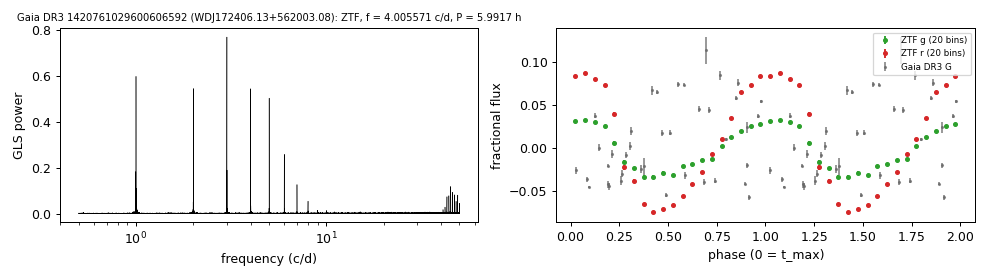
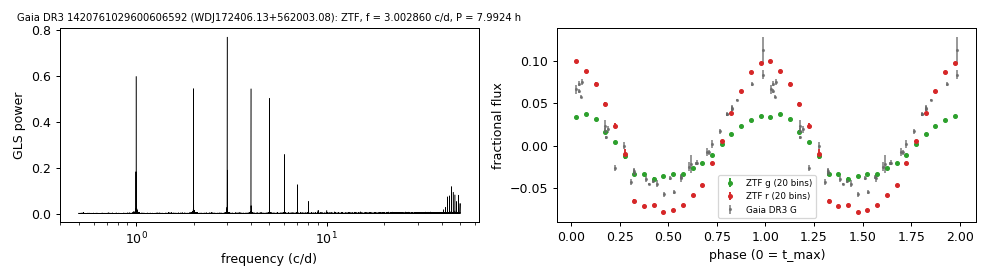
WDJ172406.13+562003.08: published orbital period adopted (ZTF peak was the 1-day alias); frequency uncertainty floored at 1/20 of the resolution

diff --git a/scripts/hot_dae_wd_periods.py b/scripts/hot_dae_wd_periods.py
@@ -11,7 +11,9 @@ Light curves:
   G transits without a rejection flag; TimeG + 2455197.5 used as BJD. The other stars are not in the published epoch-photometry table.
 Frequency: generalised Lomb-Scargle over 0.5-50 c/d (Baluev false-alarm probability of the highest peak); frequencies within
 0.03 c/d of 1, 2 and 3 c/d are excluded (1-day aliases); then a least-squares sinusoid with one offset per light curve on a fine
-grid; the uncertainty is the half-range where chi2 <= chi2_min + chi2_r.
+grid; the uncertainty is the half-range where chi2 <= chi2_min + chi2_r, floored at 1/20 of the frequency resolution 1/T. Where data/hot_dae_wd_periods_sources.csv gives adopt_frequency_cd
+(with adopt_reference), the fine-grid refinement is run around that frequency instead of the highest masked peak, which is still
+reported as peak_cd/peak_fap; used when the true period lies inside an excluded band and is established by other data.
 Amplitudes: sinusoid plus first harmonic at the adopted frequency, overall and per ZTF filter (rows "ZTF zg", "ZTF zr").
 t_max: first maximum of the fitted fundamental after BJD_TDB 2458000.0 at the adopted frequency.
 Usage: python hot_dae_wd_periods.py (writes ../tables/hot_wd_periods.csv and ../tables/dae_wd_periods.csv)."""
@@ -82,24 +84,25 @@ def sinefit(t, y, e, f, groups=None, harm=2):
     return res
 
 
-def adopted_frequency(t, y, e, g):
+def adopted_frequency(t, y, e, g, f0=None):
     fr = np.arange(0.5, 50, 0.2 / (t.max() - t.min())); ls = LombScargle(t, y, e); P = ls.power(fr)
     mask = np.ones_like(fr, bool)
     for n in (1, 2, 3):
         mask &= np.abs(fr - n) > 0.03
     k = int(np.argmax(np.where(mask, P, 0)))
     fap = float(ls.false_alarm_probability(P[k], minimum_frequency=0.5, maximum_frequency=50, method="baluev"))
-    step = 1 / (t.max() - t.min()); fg = np.arange(fr[k] - 2 * step, fr[k] + 2 * step, step / 200)
+    fc = fr[k] if f0 is None or not np.isfinite(f0) else f0
+    step = 1 / (t.max() - t.min()); fg = np.arange(fc - 2 * step, fc + 2 * step, step / 200)
     chi = np.array([sinefit(t, y, e, f, g, harm=1)["chi2"] for f in fg]); j = int(np.argmin(chi))
     s2 = chi[j] / (len(t) - len(np.unique(g)) - 2); inside = fg[chi <= chi[j] + s2]
-    return dict(f=float(fg[j]), e_f=float((inside.max() - inside.min()) / 2), gls_f=float(fr[k]), gls_fap=fap)
+    return dict(f=float(fg[j]), e_f=float(max((inside.max() - inside.min()) / 2, step / 20)), gls_f=float(fr[k]), gls_fap=fap)  # floor: 1/20 of the frequency resolution
 
 
 def main():
     out = {"hot": [], "dae": []}
     for gid, s in SRC.iterrows():
         t, y, e, g = load_atlas(gid) if s.ground == "ATLAS" else load_ztf(gid)
-        F = adopted_frequency(t, y, e, g); f = F["f"]; r = sinefit(t, y, e, f, g)
+        F = adopted_frequency(t, y, e, g, float(s.get("adopt_frequency_cd", np.nan))); f = F["f"]; r = sinefit(t, y, e, f, g)
         base = dict(gaia_dr3=gid, name=s["name"], frequency_cd=round(f, 7), e_frequency_cd=round(F["e_f"], 7), period_h=round(24 / f, 5), e_period_h=round(24 * F["e_f"] / f ** 2, 5))
         rows = [dict(base, dataset=s.ground, n=len(t), bjd_first=round(t.min(), 3), bjd_last=round(t.max(), 3), peak_cd=round(F["gls_f"], 5), peak_fap=float(f"{F['gls_fap']:.2g}"),
                      amplitude_frac=round(r["amp1"], 4), e_amplitude_frac=round(r["e_amp1"], 4), harmonic2_frac=round(r["amp2"], 4), e_harmonic2_frac=round(r["e_amp2"], 4),

diff --git a/scripts/object_pages.py b/scripts/object_pages.py
@@ -52,7 +52,7 @@ DESC = {
     "1415911839725510528": "Spectral type DA, 68.0 kK (Kilic et al. 2026, via the MWDD). G = 17.59, 833 pc.",
     "2311285729210966144": "GALEX J234931.8-353916; SDSS-V DR20 SnowWhite class DA. G = 17.88, 882 pc.",
     "3365371721281530880": "No spectrum found. G = 18.10, 1100 pc.",
-    "1420761029600606592": "DESI DR1 class DAe; GF21 15.0 kK, 0.11 Msun; W1, W2 excess 1.8, 1.9 mag. G = 16.26, 403 pc.",
+    "1420761029600606592": "DESI DR1 class DAe; GF21 15.0 kK, 0.11 Msun; W1, W2 excess 1.8, 1.9 mag. G = 16.26, 403 pc. SDSS J1724+5620, post-common-envelope binary with the orbital period published by Rebassa-Mansergas et al. (2008).",
     "1337970174853051392": "DESI DR1 class DAE; GF21 12.1 kK, 0.17 Msun; W1, W2 excess 2.0, 1.7 mag. G = 18.94, 741 pc.",
     "4409006786607484672": "DESI DR1 class DAE; GF21 22.4 kK, 0.24 Msun; W1, W2 excess 2.1, 2.6 mag. G = 18.95, 1233 pc.",
     "3717349170269867520": "DESI DR1 class DAe; GF21 22.8 kK, 0.34 Msun; W1, W2 excess 1.9, 2.0 mag. G = 18.99, 955 pc.",
@@ -252,7 +252,7 @@ MARK = {
     "974895286283420160": 1, "1157401396015448960": 1, "920621124593362816": 1,
 }
 
-NOBOLD = {"974895286283420160", "1157401396015448960", "920621124593362816"}
+NOBOLD = {"974895286283420160", "1157401396015448960", "920621124593362816", "1420761029600606592"}
 
 idx = []
 for topic in ORDER:

diff --git a/METHODS.md b/METHODS.md
@@ -60,7 +60,7 @@
     - seven stars from a blind joint g+r Lomb-Scargle search (0.5-50 c/d; 0.03 c/d around 1, 2 and 3 c/d masked) of the ZTF light curves of the 716 white dwarfs with Variable = False in Jestin et al. (2026, A&A 712, A243, table A1), keeping false-alarm probability < 1e-8, amplitude > 5 sigma, the same frequency recovered in at least 3 of 4 subsets (g only, r only, first and second half after 60-day detrending), and no shared-frequency cluster;
     - two stars with Gaia DR3 `vari_spurious_signals` frequencies recovered as the highest ATLAS peak in both bands;
     - seven stars from the DESI DR1 classes DAe, DAE and DA+ (Amorim et al. 2026), ZTF false-alarm probability < 1e-6. Two further stars whose top ZTF frequency was not reproduced by this pipeline (a 1 c/d alias, and an unstable peak choice) were excluded.
-  - Light curves, frequency refinement, amplitudes and `t_max` as for the fourteen-star set above; ZTF light curves from a 1.5 arcsec cone; frequencies within 0.03 c/d of 1, 2 and 3 c/d excluded.
+  - Light curves, frequency refinement, amplitudes and `t_max` as for the fourteen-star set above; ZTF light curves from a 1.5 arcsec cone; frequencies within 0.03 c/d of 1, 2 and 3 c/d excluded. Where the true frequency lies inside an excluded band and is established by other data, `data/hot_dae_wd_periods_sources.csv` gives it as `adopt_frequency_cd` with the reference, and the refinement is run there (WDJ172406.13+562003.08: 3.0028 c/d). The frequency uncertainty (half-range of the fine grid with chi2 <= chi2_min + chi2_r) is floored at 1/20 of the frequency resolution 1/T.
   - Period-novelty checks per star: VSX; the MWDD master table; SIMBAD; a VizieR all-table cone (period/frequency columns); Chen et al. (2020); Gao et al. (2025, ApJS 276, 57); Wang et al. (2025, ApJS 281, 52); the arXiv source tables of Oliveira da Rosa et al. (2024, ApJ 974, 314) and Filiz et al. (2026, arXiv:2601.11191) by TIC and of Reindl et al. (2021, A&A 647, A184) by name; the TESS CV catalogue (arXiv:2607.08727); TARS (arXiv:2603.05586) excludes these stars by its T < 16, d < 100 pc cuts (checked 2026-09-27).
   - CatWISE2020 excesses for the emission-line stars as on the irradiated-companion page.
 - **Gaia DR3 3107374277060584064** (`reflection_3107374277060584064.py`).

diff --git a/docs/dae_wd_periods.md b/docs/dae_wd_periods.md
@@ -4,7 +4,7 @@
 
 | star | Gaia DR3 | G | distance (pc) | DESI class | GF21 Teff, mass (H) | W1, W2 excess (mag) | P (h) | semi-amplitude g, r |
 |---|---|---|---|---|---|---|---|---|
-| WDJ172406.13+562003.08 | 1420761029600606592 | 16.26 | 403 | DAe | 15.0 kK, 0.11 Msun | 1.8, 1.9 | 5.9917 | 3.3%, 8.2% |
+| WDJ172406.13+562003.08 | 1420761029600606592 | 16.26 | 403 | DAe | 15.0 kK, 0.11 Msun | 1.8, 1.9 | 7.9924 (published: Rebassa-Mansergas et al. 2008) | 3.9%, 9.2% |
 | WDJ170125.28+343530.59 | 1337970174853051392 | 18.94 | 741 | DAE | 12.1 kK, 0.17 Msun | 2.0, 1.7 | 2.7375 | 2.6%, 5.8% |
 | WDJ161752.97+015840.92 | 4409006786607484672 | 18.95 | 1233 | DAE | 22.4 kK, 0.24 Msun | 2.1, 2.6 | 2.0472 | 3.4%, 8.8% |
 | WDJ132308.63+055900.97 | 3717349170269867520 | 18.99 | 955 | DAe | 22.8 kK, 0.34 Msun | 1.9, 2.0 | 2.6828 | 4.5%, 11.8% |
@@ -16,7 +16,7 @@
 - **GF21 Teff, mass:** Gentile Fusillo et al. (2021) H-atmosphere fits to the combined photometry; with a companion contributing red flux they are indicative only.
 - **W1, W2 excess:** how much brighter the observed CatWISE2020 magnitude is than the pure-H Montreal model prediction scaled to Gaia G.
 - No period for any of these stars in VSX, the MWDD, Chen et al. (2020), Oliveira da Rosa et al. (2024) or the catalogues listed on the [hot-white-dwarf page](hot_wd_periods.md).
-- WDJ172406.13+562003.08 is listed in VSX as type CV without a period.
+- WDJ172406.13+562003.08 is SDSS J1724+5620, a post-common-envelope binary with a published orbital period of 7.9924632 ± 0.0000312 h (Rebassa-Mansergas et al. 2008, MNRAS 390, 1635, from 13 nights of IAC80/AIP photometry, with H-alpha radial velocities in phase); VSX lists it as type CV without a period. The highest masked ZTF peak, 4.0055 c/d (5.9917 h), is the 1-day alias of the published frequency, 3.0028 c/d, which lies inside the 3 c/d exclusion band and has the higher ZTF power (g 0.76 against 0.49, r 0.93 against 0.67); TESS 2-minute data (14 sectors) give 7.9882 h. The table uses the published frequency (data/hot_dae_wd_periods_sources.csv, adopt_frequency_cd); the earlier value 5.9917 h on this page was the alias.
 
 <img src="../figures/dae_wd_periods/1420761029600606592.png" width="700">
 

diff --git a/README.md b/README.md
@@ -163,7 +163,7 @@ One page per object with the measurement and its supporting data (tables, input 
 
 | object | description | measurement |
 |---|---|---|
-| [WDJ172406.13+562003.08](docs/objects/1420761029600606592.md) \*\*\* | DESI DR1 class DAe; GF21 15.0 kK, 0.11 Msun; W1, W2 excess 1.8, 1.9 mag. G = 16.26, 403 pc. | **P = 5.99166 h, 5.8% (ZTF)** |
+| [WDJ172406.13+562003.08](docs/objects/1420761029600606592.md) \*\*\* | DESI DR1 class DAe; GF21 15.0 kK, 0.11 Msun; W1, W2 excess 1.8, 1.9 mag. G = 16.26, 403 pc. SDSS J1724+5620, post-common-envelope binary with the orbital period published by Rebassa-Mansergas et al. (2008). | P = 7.99238 h, 6.5% (ZTF) |
 | [WDJ170125.28+343530.59](docs/objects/1337970174853051392.md) \*\*\* | DESI DR1 class DAE; GF21 12.1 kK, 0.17 Msun; W1, W2 excess 2.0, 1.7 mag. G = 18.94, 741 pc. | **P = 2.73751 h, 3.9% (ZTF)** |
 | [WDJ161752.97+015840.92](docs/objects/4409006786607484672.md) \*\*\* | DESI DR1 class DAE; GF21 22.4 kK, 0.24 Msun; W1, W2 excess 2.1, 2.6 mag. G = 18.95, 1233 pc. | **P = 2.04723 h, 5.7% (ZTF)** |
 | [WDJ132308.63+055900.97](docs/objects/3717349170269867520.md) \*\*\* | DESI DR1 class DAe; GF21 22.8 kK, 0.34 Msun; W1, W2 excess 1.9, 2.0 mag. G = 18.99, 955 pc. | **P = 2.68284 h, 7.4% (ZTF)** |

diff --git a/docs/objects/1420761029600606592.md b/docs/objects/1420761029600606592.md
@@ -2,16 +2,16 @@
 
 ## Periods of DA white dwarfs with emission lines
 
-DESI DR1 class DAe; GF21 15.0 kK, 0.11 Msun; W1, W2 excess 1.8, 1.9 mag. G = 16.26, 403 pc.
+DESI DR1 class DAe; GF21 15.0 kK, 0.11 Msun; W1, W2 excess 1.8, 1.9 mag. G = 16.26, 403 pc. SDSS J1724+5620, post-common-envelope binary with the orbital period published by Rebassa-Mansergas et al. (2008).
 
-**Measurement.** P = 5.99166 ± 0.0 h (ZTF, n = 4034, BJD 2458198.928-2460969.662); semi-amplitude 5.8% ± 0.1%.
+**Measurement.** P = 7.99238 ± 5e-05 h (ZTF, n = 4034, BJD 2458198.928-2460969.662); semi-amplitude 6.5% ± 0.1%.
 
 | data set | n | semi-amplitude | first harmonic |
 |---|---|---|---|
-| ZTF | 4034 | 5.78% ± 0.09% | 0.60% |
-| ZTF zg | 1986 | 3.28% ± 0.08% | 0.56% |
-| ZTF zr | 2048 | 8.24% ± 0.15% | 0.89% |
-| Gaia DR3 epoch photometry G | 39 | 2.64% ± 0.98% | - |
+| ZTF | 4034 | 6.53% ± 0.07% | 0.58% |
+| ZTF zg | 1986 | 3.85% ± 0.05% | 0.33% |
+| ZTF zr | 2048 | 9.16% ± 0.06% | 0.91% |
+| Gaia DR3 epoch photometry G | 39 | 6.01% ± 0.19% | - |
 
 Method and context: [dae_wd_periods](../dae_wd_periods.md)
 

diff --git a/docs/objects/1157401396015448960.md b/docs/objects/1157401396015448960.md
@@ -4,7 +4,7 @@
 
 GALEX J151215.7+065156; UHE white dwarf, DOZ (Reindl et al. 2021, where the period is published). G = 17.22, 990 pc.
 
-**Measurement.** P = 5.4245 ± 1e-05 h (ZTF, n = 1334, BJD 2458198.9-2460910.666); semi-amplitude 1.8% ± 0.1%.
+**Measurement.** P = 5.4245 ± 2e-05 h (ZTF, n = 1334, BJD 2458198.9-2460910.666); semi-amplitude 1.8% ± 0.1%.
 
 | data set | n | semi-amplitude | first harmonic |
 |---|---|---|---|

diff --git a/docs/objects/920621124593362816.md b/docs/objects/920621124593362816.md
@@ -4,7 +4,7 @@
 
 KUV 07523+4017; DOZ / PG 1159 (Reindl et al. 2021, where the period is published). G = 17.80, 1052 pc.
 
-**Measurement.** P = 20.78523 ± 0.00011 h (ZTF, n = 4135, BJD 2458204.708-2460968.989); semi-amplitude 2.5% ± 0.1%.
+**Measurement.** P = 20.78523 ± 0.00033 h (ZTF, n = 4135, BJD 2458204.708-2460968.989); semi-amplitude 2.5% ± 0.1%.
 
 | data set | n | semi-amplitude | first harmonic |
 |---|---|---|---|

diff --git a/docs/objects/5157333438398813824.md b/docs/objects/5157333438398813824.md
@@ -4,7 +4,7 @@
 
 Spectral type DA with a photometric temperature above 100 kK (MWDD). G = 17.37, 1072 pc.
 
-**Measurement.** P = 28.51831 ± 0.00029 h (ZTF, n = 823, BJD 2458329.962-2460968.862); semi-amplitude 3.4% ± 0.1%.
+**Measurement.** P = 28.51831 ± 0.00064 h (ZTF, n = 823, BJD 2458329.962-2460968.862); semi-amplitude 3.4% ± 0.1%.
 
 | data set | n | semi-amplitude | first harmonic |
 |---|---|---|---|

diff --git a/docs/objects/1337970174853051392.md b/docs/objects/1337970174853051392.md
@@ -4,7 +4,7 @@
 
 DESI DR1 class DAE; GF21 12.1 kK, 0.17 Msun; W1, W2 excess 2.0, 1.7 mag. G = 18.94, 741 pc.
 
-**Measurement.** P = 2.73751 ± 0.0 h (ZTF, n = 6963, BJD 2458198.896-2460969.657); semi-amplitude 3.9% ± 0.1%.
+**Measurement.** P = 2.73751 ± 1e-05 h (ZTF, n = 6963, BJD 2458198.896-2460969.657); semi-amplitude 3.9% ± 0.1%.
 
 | data set | n | semi-amplitude | first harmonic |
 |---|---|---|---|

diff --git a/docs/objects/3717349170269867520.md b/docs/objects/3717349170269867520.md
@@ -4,7 +4,7 @@
 
 DESI DR1 class DAe; GF21 22.8 kK, 0.34 Msun; W1, W2 excess 1.9, 2.0 mag. G = 18.99, 955 pc.
 
-**Measurement.** P = 2.68284 ± 0.0 h (ZTF, n = 562, BJD 2458198.865-2460857.738); semi-amplitude 7.4% ± 0.5%.
+**Measurement.** P = 2.68284 ± 1e-05 h (ZTF, n = 562, BJD 2458198.865-2460857.738); semi-amplitude 7.4% ± 0.5%.
 
 | data set | n | semi-amplitude | first harmonic |
 |---|---|---|---|

diff --git a/docs/objects/1415911839725510528.md b/docs/objects/1415911839725510528.md
@@ -4,7 +4,7 @@
 
 Spectral type DA, 68.0 kK (Kilic et al. 2026, via the MWDD). G = 17.59, 833 pc.
 
-**Measurement.** P = 30.1191 ± 0.0002 h (ZTF, n = 4073, BJD 2458198.928-2460969.662); semi-amplitude 1.9% ± 0.1%.
+**Measurement.** P = 30.1191 ± 0.00068 h (ZTF, n = 4073, BJD 2458198.928-2460969.662); semi-amplitude 1.9% ± 0.1%.
 
 | data set | n | semi-amplitude | first harmonic |
 |---|---|---|---|
